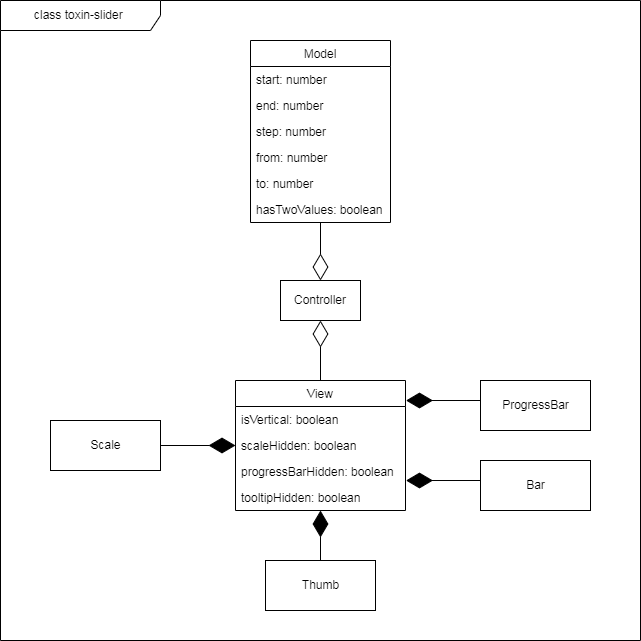
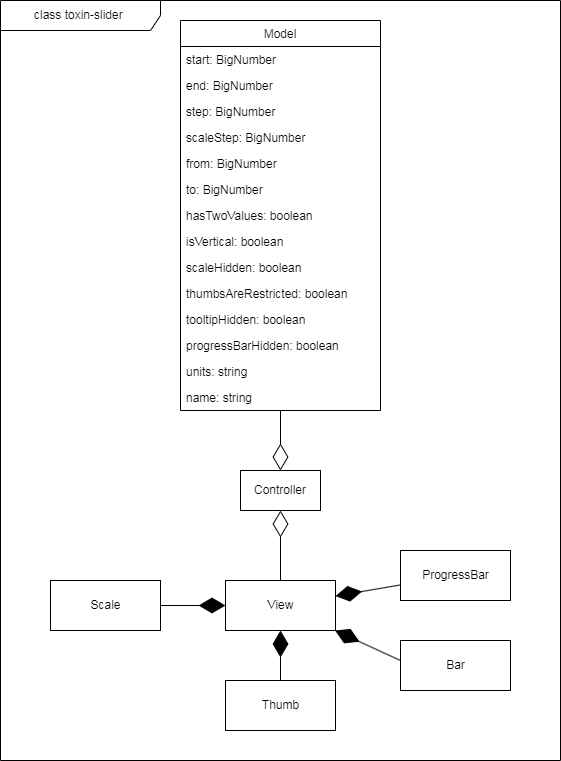
updated readme

diff --git a/README.md b/README.md
@@ -11,7 +11,7 @@
 
 Пример страницы с демо-слайдером: [TOXIN-слайдер](http://mysecondsite.h1n.ru/).
 
-Использовалась библиотека **jQuery** версии 3.6.0.
+Использовалась библиотеки **jQuery** версии 3.6.0 и **bignumber.js** версии 9.0.2 
 
 ## Применение
 
@@ -19,9 +19,14 @@
 файлы `toxin-slider.js` и `toxin-slider.css`. Не рекомендуется использовать классы с префиксом
 `toxin-slider`, он использован для компонент слайдера.
 ```
-<script src="https://code.jquery.com/jquery-3.6.0.js"></script>
-<script src="./toxin-slider.js"></script>
+<!-- Own stylesheet -->
 <link href="./toxin-slider.css" rel="stylesheet">
+<body>
+  ...
+  <script defer src="https://code.jquery.com/jquery-3.6.0.js"></script>
+  <script defer src="./toxin-slider.js"></script>
+  <!-- Own script -->
+</body>
 ```
 
 Для создания слайдера нужно вызвать для jQuery-объекта метод `.toxinSlider()` с
@@ -30,10 +35,12 @@
 $('.container').toxinSlider({
   start: 30, // начало шкалы
   end: 50, // конец шкалы
-  step: 5, // шаг шкалы
-  from: 35, // положение 1 бегунка по умолчанию 
-  to: 40, // положение 2 бегунка по умолчанию
+  step: 1, // шаг слайдерв
+  scaleStep: 5, // шаг шкалы
+  from: 32, // положение 1 бегунка по умолчанию 
+  to: 41, // положение 2 бегунка по умолчанию
   hasTwoValues: true, // диапазон/одиночный
+  thumbsAreRestricted: true, // бегунки ограничивают друг друга
   scaleHidden: true, // видимость шкалы
   tooltipHidden: true, // видимость числа над бегунком
   progressBarHidden: true, // видимость прогресс-бара
@@ -42,6 +49,12 @@ $('.container').toxinSlider({
   name: 'price', // префикс для имён полей ввода
 });
 ```
+Каждый из параметров может быть пропущен, в этом случае будет использовано значение по умолчанию.
+Для числовых значений: `0`, для булевых: `false`, для `units`: пустая строка, для `name`: `undefined-name`.
+Шаг шкалы должен превышать шаг слайдера и нацело на него делиться без остатка. Если шаг шкалы указан некорректно,
+или просто не указан, будет использован шаг слайдера. Отображаемый шаг шкалы может превышать
+указанный, если размер слайдера на странице браузера достаточно мал,
+а количество значений шкалы достаточно велико.
 
 Слайдер займёт 100% ширины или высоты контейнера.
 
@@ -49,14 +62,36 @@ $('.container').toxinSlider({
 использован префикс `name`. Если, например, `name === 'price'` поля ввода
 будут иметь имена **price-from** и **price-to**, значения в них будут соответствовать
 положениям *бегунков*. Если слайдер с одним *бегунком*, будет использовано только
-одно поле **price-from**.
+одно поле, ему будет присвоено имя **price**.
 
 Для изменения параметров слайдера нужно повторно вызвать `.toxinSlider()` с новыми параметрами.
 
 Если требуется отслеживать состояние слайдера, нужно настроить обработку
 события `toxin-slider.slide`, которое генерирует слайдер при изменении своего состояния.
-К данному событию прикрепляется объект, соответствующий интерфейсу `ViewState`, который
-содержит все параметры слайдера.
+К данному событию прикрепляется объект, соответствующий интерфейсу `OutsideOptions`, который
+содержит все параметры слайдера. Этому же интерфейсу соответствует объект, передаваемый в
+метод `.toxinSlider()`. Когда слайдер генерирует событие `toxin-slider.slide`, всем полям в
+объекте, имеющим тип `number | string` присваивается значение типа `number`.
+
+```
+interface OutsideOptions {
+  start?: number | string;
+  end?: number | string;
+  step?: number | string;
+  from?: number | string;
+  to?: number | string;
+  hasTwoValues?: boolean;
+  isVertical?: boolean;
+  progressBarHidden?: boolean;
+  tooltipHidden?: boolean;
+  scaleHidden?: boolean;
+  scaleStep?: number | string;
+  thumbsAreRestricted?: boolean;
+  name?: string;
+  units?: string;
+}
+```
+
 ```
 function handleSlide(event, { from, to }) {
   console.log(`От ${from} до ${to}`);
@@ -74,10 +109,12 @@ $('.container')
   .toxinSlider({
     start: 30, // начало шкалы
     end: 50, // конец шкалы
-    step: 5, // шаг шкалы
-    from: 35, // положение 1 бегунка по умолчанию 
-    to: 40, // положение 2 бегунка по умолчанию
+    step: 1, // шаг слайдерв
+    scaleStep: 5, // шаг шкалы
+    from: 32, // положение 1 бегунка по умолчанию 
+    to: 41, // положение 2 бегунка по умолчанию
     hasTwoValues: true, // диапазон/одиночный
+    thumbsAreRestricted: true, // бегунки ограничивают друг друга
     scaleHidden: true, // видимость шкалы
     tooltipHidden: true, // видимость числа над бегунком
     progressBarHidden: true, // видимость прогресс-бара
@@ -103,37 +140,34 @@ $('.container')
 
 ### Класс Model
 
-При создании нового экземпляра указываются начало, конец и шаг шкалы;
-формат слайдера - одиночный бегунок или диапазон, ограниченный двумя бегунками;
-начальные границы диапазона. Эти данные соответствуют интерфейсу `ModelState`. В формате "одиночный бегунок" используется одно значение `from`.
+При создании нового экземпляра указываются параметры,
+соответствующие интерфейсу `Options`.
 ```
-interface ModelState {
-  start?: number;
-  end?: number;
-  step?: number;
-  from?: number;
-  to?: number;
-  hasTwoValues?: boolean;
+interface Options extends OutsideOptions {
+  typeMessage: 'options';
 }
 ```
+
 ```
 const model = new Model({
-  start: 0,
-  end: 10,
-  step: 1,
-  from: 3,
-  to: 7,
-  hasTwoValues: true,
+  typeMessage: 'options',
+  start: 12,
+  end: 0,
+  step: 3,
+  from: 9,
+  scaleStep: 6,
+  tooltipHidden: true,
 });
 ```
 
 При создании и изменении состояния слайдера, числовые значения
 нормализуются. Начало и конец шкалы могут быть любыми числовыми значениями,
 начало может быть и меньше и больше конца шкалы. Начало и конец шкалы не нормализуются.  
-Модуль шага шкалы не может быть больше, чем модуль разности начала и конца, в случае превышения
-шагу шкалы присваивается разность начала и конца шкалы.
-Если знак шага не соответствует шкале (шкала убывающая, а шаг положительный,
-или шкала возрастающая, а шаг отрицательный), знак меняется на противоположный.
+Шаг слайдера не может быть больше, чем модуль разности начала и конца шкалы,
+в случае превышения
+шагу слайдера присваивается значение модуля разности начала и конца шкалы.
+Шаг слайдера не может быть отрицательным, если указать отрицательный шаг,
+знак будет отброшен.
 Если значение `from` или `to` не соответствует ни одному из делений шкалы, ему присваивается
 значение ближайшего.
 
@@ -144,54 +178,55 @@ const model = new Model({
 
 ### Класс View
 
-При создании экземпляра *вида* указываются внешняя обёртка, видимость *шкалы*, *прогресс-бара*, числа над *бегунком*,
-вертикальная/горизонтальная ориентация слайдера и параметры *модели*, на основе которых *вид* будет
-рассчитывать положение *бегунков* и параметры
-*шкалы* (начало, конец, шаг) для их отображения. Если *модель* в формате "одиночный бегунок", *вид*
-будет отображать только один *бегунок*, иначе оба.
+При создании экземпляра *вида* указываются внешняя обёртка, и объект, содержащий внутренние
+параметры слайдера (соответствует интерфейсу `SliderState`).
 ```
-interface ViewState extends ModelState {
-  isVertical?: boolean;
-  progressBarHidden?: boolean;
-  tooltipHidden?: boolean;
-  scaleHidden?: boolean;
-  units?: string;
-  name?: string;
+interface SliderState {
+  start: Big;
+  end: Big;
+  step: Big;
+  from: Big;
+  to: Big;
+  hasTwoValues: boolean;
+  isVertical: boolean;
+  progressBarHidden: boolean;
+  tooltipHidden: boolean;
+  scaleHidden: boolean;
+  scaleStep: Big;
+  thumbsAreRestricted: boolean;
+  name: string;
+  units: string;
 }
-```
-```
-  const view = new View({
-    state: {
-      start: 14,
-      end: 102,
-      step: 5,
-      from: 19,
-      to: 24,
-      hasTwoValues: false,
-      isVertical: true,
-      progressBarHidden: false,
-      tooltipHidden: false,
-      scaleHidden: false,
-      units: 'mm.',
-      name: 'example-slider',
-    },
-    $outerWrapper: $('.js-container'),
-  });
-```
 
-`units` - это строка, которая дописывается к числам шкалы и числу над бегунком,
-по умолчанию пустая строка.
-
-Внутри слайдера будут созданы два числовых поля ввода. Для их имён будет
-использован префикс `name`. Если, например, `name === 'price'` поля ввода
-будут иметь имена **price-from** и **price-to**, значения в них будут соответствовать
-*модели*.
+```
+```
+const view = new View({
+  $outerWrapper,
+  state: {
+    start: new BigNumber(14),
+    end: new BigNumber(114),
+    step: new BigNumber(25),
+    from: new BigNumber(39),
+    to: new BigNumber(64),
+    isVertical: true,
+    hasTwoValues: true,
+    progressBarHidden: false,
+    tooltipHidden: false,
+    scaleHidden: false,
+    scaleStep: new BigNumber(25),
+    thumbsAreRestricted: false,
+    name: 'test',
+    units: 'mm.',
+  }
+});
+```
 
 При инициализации *вида* создаются 2 экземпляра *бегунка*, экземпляр *шкалы*,
-экземпляр *прогресс-бара* и экземпляр *направляющей* (Bar), которым передаются соответствующие параметры *вида* и *модели*.
+экземпляр *прогресс-бара* и экземпляр *направляющей* (Bar),
+которым передаются соответствующие параметры *модели*.
 
 Обновление *вида* происходит при вызове *контроллером* публичного метода `update()`,
-которому передаются новые параметры *вида*, тот в свою очередь обновляет состояние 
+которому передаются новые параметры слайдера, тот в свою очередь обновляет состояние 
 *бегунков*, *шкалы*, *прогресс-бара*, *направляющей* и полей ввода.
 
 ### Класс Controller
@@ -199,7 +234,7 @@ interface ViewState extends ModelState {
 При создании экземпляра *контроллера*, указываются конкретные экземпляры *вида*
 и *модели*. К jQuery-объекту данного экземпляра *вида* прикрепляется обработчик
 события `toxin-slider.update`. Это событие генерируется при
-вводе пользователя или вызове функции `.toxinSlider()`. Обработчик события `toxin-slider.update`
+вводе пользователя или вызове метода `.toxinSlider()`. Обработчик события `toxin-slider.update`
 изменяет состояние *модели*, используя данные события, затем вызывает обновление
-*вида*. Также *контроллер* генерирует событие `toxin-slider.slide`, которое позволяет извне
+*вида*, передавая виду состояние обновлённой модели. Также *контроллер* генерирует событие `toxin-slider.slide`, которое позволяет извне
 отслеживать состояние слайдера.
